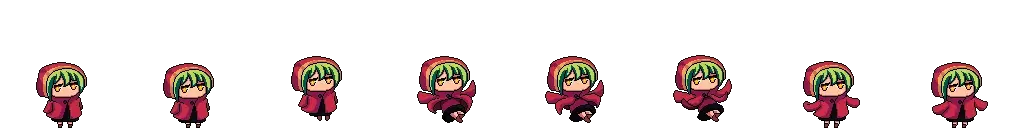
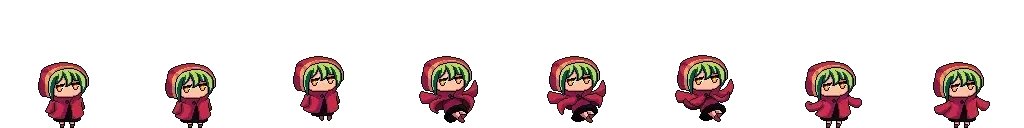
fix bugs
1. Hitboxes were wider than the objects appeared - fixed by setting the character sprites sizes more precisely.
2. Hitting spacebar while dying broke the game - fixed by adding more strict conditions for game restart.
3. Set up foreground objects velocity the same as obstacles' velocity for better appearance.
4. Obstacles moved slower than foreground on restart - fixed by resetting the bg velocities within `resetSetting` function.

diff --git a/scripts/main.js b/scripts/main.js
@@ -26,6 +26,11 @@ import {
   spriteYScaled,
   smallScreenCoefficient,
   initialObstacleVel,
+  idleSpriteXNoPadding,
+  idleXScaled,
+  idleXPadding,
+  jumpSpriteXNoPadding,
+  jumpXPadding,
 } from './config.js';
 import { loadBgImage, loadImages } from './helpers.js';
 import { displayControls, displayDialog, hideDialog, populateControlsTip, populateMenu } from './menu.js';
@@ -57,7 +62,7 @@ let sprite = 0;
 let frame = 0;
 let velocity = 5;
 let obstacleVelocity = initialObstacleVel;
-let deadAnimationplayed = false;
+let deadAnimationPlaying = false;
 let score = 0;
 let bestScore = 0;
 let isNewBest = false;
@@ -150,7 +155,7 @@ function restartGame() {
     loadBgImage(bgArray[i], env);
   }
   backgroundVel = initialBackgroundVel;
-  foregroundVel = initialForegroundVel;
+  foregroundVel = initialObstacleVel;
   obstacleArray = Array.from({length: maxObstaclesPerScreen});
   obstacleVelocity = initialObstacleVel;
   scoreFreq = 0;
@@ -178,7 +183,8 @@ function resetSettings() {
   isDead = false;
   score = 0;
   isNewBest = false;
-  deadAnimationplayed = false;
+  deadAnimationPlaying = false;
+  updateBgVel();
   playTheme();
 }
 
@@ -197,7 +203,9 @@ function endGame(type) {
   }
   setTimeout(() => {
     populateMenu(type, bestScore, score, isNewBest);
-    displayDialog();
+    if (!startGame) {
+      displayDialog();
+    }
     isRestart = true;
     const restartBtn = document.getElementById('restart-btn');
     restartBtn.addEventListener('click', () => {
@@ -224,19 +232,18 @@ class Hero {
   drawIdle() {
     ctx.drawImage(
       imageIdle, 
-      (sprite * spriteX) + spriteXPadding, // top-left corner of the slice to cut out (X)
+      (sprite * spriteX) + idleXPadding, // top-left corner of the slice to cut out (X)
       0, // top-left corner of the slice to cut out (Y)
-      spriteXNoPadding, // the size of the slice to cut out (X)
+      idleSpriteXNoPadding, // the size of the slice to cut out (X)
       spriteYNoPadding, // the size of the slice to cut out (Y)
       this.x, // top-left corner of canvas box into which to draw the slice (X)
       this.y, // top-left corner of canvas box into which to draw the slice (Y)
-      spriteXScaled, // the size of the image on the canvas (X)
+      idleXScaled, // the size of the image on the canvas (X)
       spriteYScaled // the size of the image on the canvas (Y)
     );
 
-  slowFramerate(idleVelocity, 4);
-
-  frame++;
+    slowFramerate(idleVelocity, 4);
+    frame++;
   }
 
   drawRun() {
@@ -248,8 +255,8 @@ class Hero {
       spriteYNoPadding, // the size of the slice to cut out (Y)
       this.x, // top-left corner of canvas box into which to draw the slice (X)
       this.y, // top-left corner of canvas box into which to draw the slice (Y)
-      Math.round(spriteXNoPadding * smallScreenCoefficient), // the size of the image on the canvas (X)
-      Math.round(spriteYNoPadding * smallScreenCoefficient) // the size of the image on the canvas (Y)
+      spriteXScaled, // the size of the image on the canvas (X)
+      spriteYScaled // the size of the image on the canvas (Y)
     );
   
     slowFramerate(velocity, runSprites);
@@ -260,14 +267,14 @@ class Hero {
   drawJump() {
     ctx.drawImage(
       imageJump,
-      (sprite * spriteX) + spriteXPadding, // top-left corner of the slice to cut out (X)
+      (sprite * spriteX) + jumpXPadding, // top-left corner of the slice to cut out (X)
       spriteY - spriteYNoPadding, // top-left corner of the slice to cut out (Y)
-      spriteXNoPadding, // the size of the slice to cut out (X)
+      jumpSpriteXNoPadding, // the size of the slice to cut out (X)
       spriteYNoPadding, // the size of the slice to cut out (Y)
       this.x, // top-left corner of canvas box into which to draw the slice (X)
       this.y - posY, // top-left corner of canvas box into which to draw the slice (Y)
-      Math.round(spriteXNoPadding * smallScreenCoefficient), // the size of the image on the canvas (X)
-      Math.round(spriteYNoPadding * smallScreenCoefficient) // the size of the image on the canvas (Y)
+      Math.round(jumpSpriteXNoPadding * smallScreenCoefficient), // the size of the image on the canvas (X)
+      spriteYScaled // the size of the image on the canvas (Y)
     );
     
     slowFramerate(4, jumpSprites);
@@ -300,12 +307,12 @@ class Hero {
       0, // top-left corner of canvas box into which to draw the slice (X)
       this.y - posY, // top-left corner of canvas box into which to draw the slice (Y)
       Math.round(spriteDeadXNoPadding * smallScreenCoefficient), // the size of the image on the canvas (X)
-      Math.round(spriteYNoPadding * smallScreenCoefficient) // the size of the image on the canvas (Y)
+      spriteYScaled // the size of the image on the canvas (Y)
     );
 
     // if animation has finished
     if (sprite >= deadSprites) {
-      deadAnimationplayed = true;
+      deadAnimationPlaying = true;
     } else {
       slowFramerate(velocity, deadSprites);
       frame++;
@@ -368,7 +375,7 @@ function updateScore() {
       level++;
       obstacleVelocity += .9;
       backgroundVel += .5;
-      foregroundVel += .5;
+      foregroundVel += .9;
       updateBgVel();
       updateObstacleVel();
       scoreVel = initScoreVel * ((100 - (level * 10)) / 100);
@@ -458,7 +465,7 @@ function loop() {
     }
   }
 
-  if (isDead && startGame && !deadAnimationplayed) {
+  if (isDead && startGame && !deadAnimationPlaying) {
     hero.drawDead();
   } else if (isRunning) {
     hero.drawRun();
@@ -469,7 +476,7 @@ function loop() {
   }
 
   loopId = window.requestAnimationFrame(loop);
-  if (deadAnimationplayed) {
+  if (deadAnimationPlaying) {
     endGame('gameOver');
   }
 }

diff --git a/scripts/config.js b/scripts/config.js
@@ -9,7 +9,7 @@ export const deadVel = 10;
 export const idleVelocity = 13;
 export const initialObstacleVel = window.innerWidth > 1024 ? 6 : 3;
 export const initialBackgroundVel = 1;
-export const initialForegroundVel = 2;
+export const initialForegroundVel = window.innerWidth > 1024 ? 6 : 3;
 export const initScoreVel = 20;
 export const jumpSprites = 7;
 export const maxLevel = 5;
@@ -18,17 +18,22 @@ export const scoreCharsAmount = 5;
 export const maxScore = Number(String('').padStart(scoreCharsAmount, '9'));
 export const minDistanceBetweenObstacles = 50;
 export const nextEnvScorePoint = 400;
-export const offsetPerFrame = window.innerWidth > 1024 ? 60 : 40;
+export const offsetPerFrame = window.innerWidth > 1024 ? 55 : 40;
 export const runSprites = 7;
 export const spriteX = 128;
 export const spriteY = 128;
-export const spriteXNoPadding = 54;
+export const spriteXNoPadding = 46;
 export const spriteYNoPadding = 75;
-export const spriteXScaled = window.innerWidth > 1024 ? spriteXNoPadding : Math.round(spriteXNoPadding * smallScreenCoefficient);
-export const spriteYScaled = window.innerWidth > 1024 ? spriteYNoPadding : Math.round(spriteYNoPadding * smallScreenCoefficient);
+export const spriteXScaled = Math.round(spriteXNoPadding * smallScreenCoefficient);
+export const spriteYScaled = Math.round(spriteYNoPadding * smallScreenCoefficient);
+export const idleSpriteXNoPadding = 51;
+export const idleXScaled = Math.round(idleSpriteXNoPadding * smallScreenCoefficient);
+export const jumpSpriteXNoPadding = 59;
 export const spriteDeadXNoPadding = 76;
 export const spriteXPadding = (spriteX - spriteXNoPadding) / 2;
 export const spriteDeadXPadding = (spriteX - spriteDeadXNoPadding) / 2;
+export const idleXPadding = (spriteX - idleSpriteXNoPadding) / 2;
+export const jumpXPadding = (spriteX - jumpSpriteXNoPadding) / 2;
 export const obstacles = [
   {
     imgSrc: "images/obstacles/cave_rock4.png",

diff --git a/scripts/obstacles.js b/scripts/obstacles.js
@@ -72,6 +72,15 @@ export function createSingleObstacle(obstacleArray, obstacleVelocity) {
   obstacleObj.isVisible = false;
   obstacleObj.x = distance;
   obstacleObj.y = canvasHeight - (obstacles[idx].sizeY * smallScreenCoefficient);
-  const obstacle = new Obstacle(obstacleObj.isPassed, obstacleObj.isVisible, obstacleImg, obstacleObj.x, obstacleObj.y, obstacles[idx].sizeX, obstacles[idx].sizeY, obstacleVelocity);
+  const obstacle = new Obstacle(
+    obstacleObj.isPassed, 
+    obstacleObj.isVisible, 
+    obstacleImg, 
+    obstacleObj.x, 
+    obstacleObj.y, 
+    obstacles[idx].sizeX, 
+    obstacles[idx].sizeY, 
+    obstacleVelocity
+  );
   return obstacle;
 }
